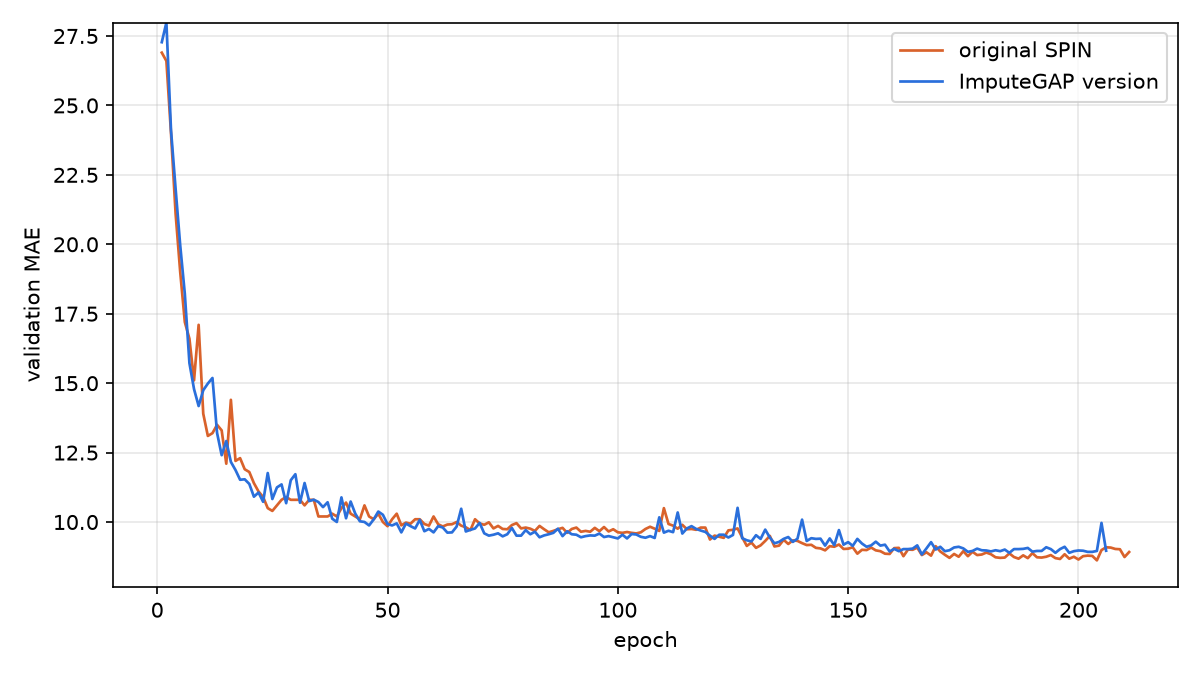
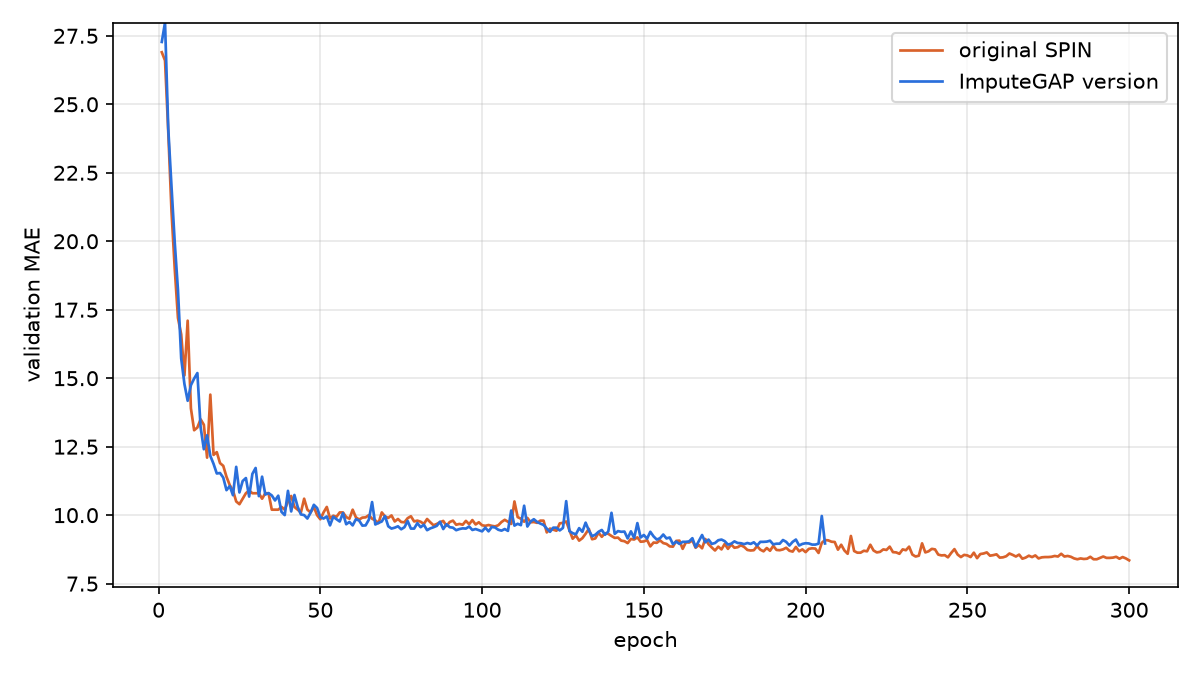
changed validation files

diff --git a/imputegap/wrapper/AlgoPython/SPIN/validation/prepare_original.py b/imputegap/wrapper/AlgoPython/SPIN/validation/prepare_original.py
@@ -3,7 +3,7 @@ import subprocess
 import sys
 
 REPO_URL = "https://github.com/Graph-Machine-Learning-Group/spin.git"
-COMMIT = "7349ba31da7306e7e96c13668a3f1f0a4df90902"  # latest commit of the official repo (May 2023)
+COMMIT = "7349ba31da7306e7e96c13668a3f1f0a4df90902"  
 SPIN_REPO = os.path.expanduser("~/spin-original/spin")
 
 
@@ -27,7 +27,7 @@ def print_versions():
 
 
 def download_datasets():
-    os.chdir(SPIN_REPO)  # tsl reads tsl_config.yaml from the working directory
+    os.chdir(SPIN_REPO)  
     from tsl.datasets import AirQuality, MetrLA, PemsBay
     for name, load in [("AQI-36", lambda: AirQuality(impute_nans=True, small=True)),
                        ("METR-LA", MetrLA),
